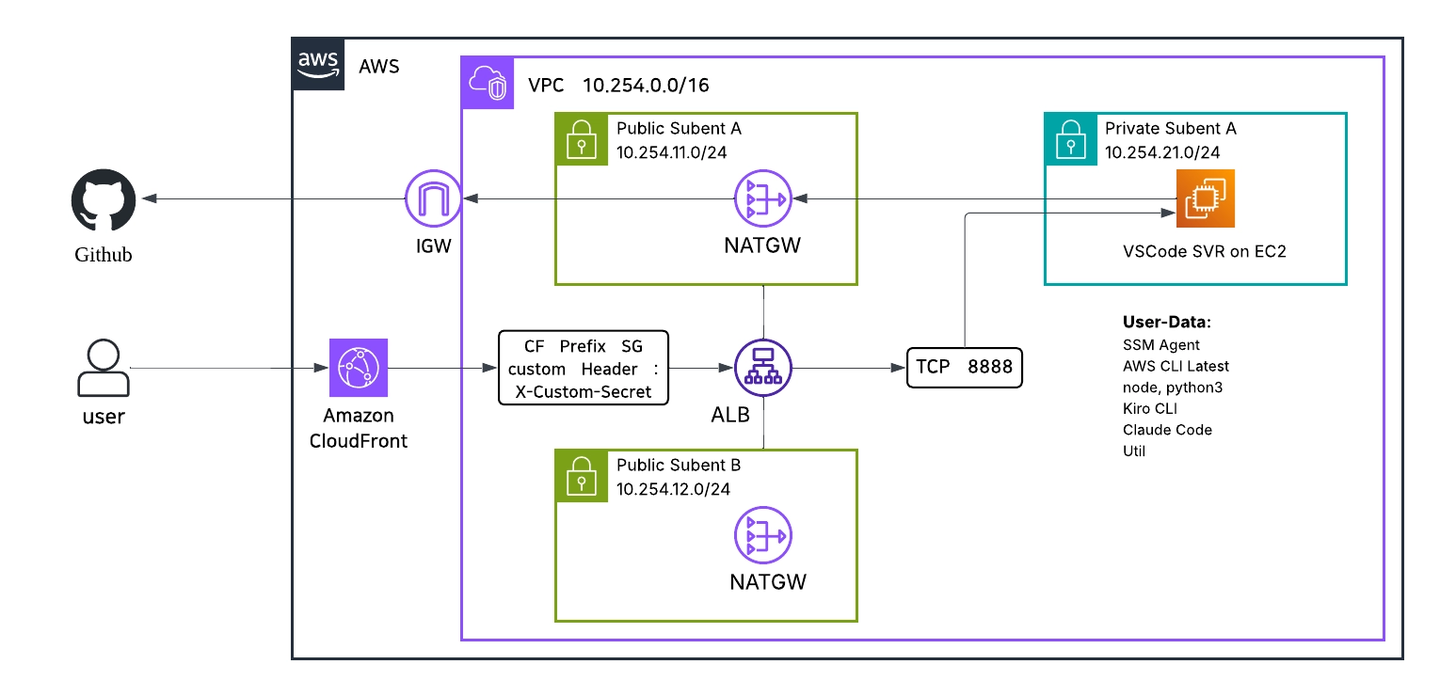
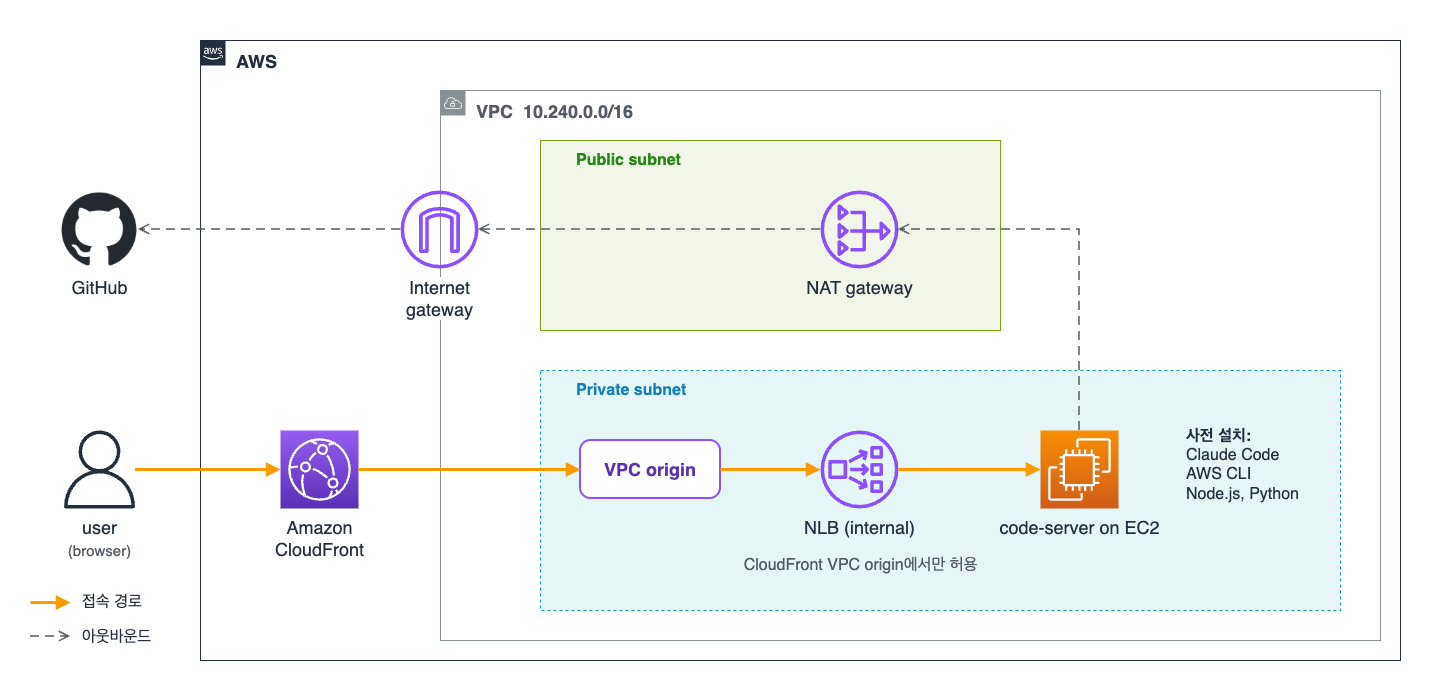
fix(20261116): preflight reads the IDE address from Event outputs only
- Drop the EC2 console instance check and the CloudShell describe-stacks
  step; CHECK 02 now reads IDEUrl and Password from Event outputs.
- Renumber the checks (six to five) and drop durations from heading ids.
- Replace the access diagram (fig-05) with a CloudFront VPC origin path:
  CloudFront -> VPC origin -> internal NLB -> code-server on EC2 in a
  private subnet; keep the draw.io source next to it.
- Remove the unused EC2 console screenshot (fig-02).

diff --git a/20261116/ClaudeCode_Preflight_Check.html b/20261116/ClaudeCode_Preflight_Check.html
@@ -94,91 +94,40 @@ body.nav-open .side{transform:none}main{padding:22px 16px 60px}.page-title{font-
 <p><strong>Chapter 1을 열기 전, 프리플라이트</strong></p>
 </blockquote>
 <p>실습 환경이 켜져 있고 브라우저로 닿는지만 확인하면 준비 끝입니다.
-아래 여섯 항목을 순서대로 체크하세요. 전부 초록이 되면 그대로 Chapter 1로 진입합니다.</p>
-<p>확인 항목 <strong>6개</strong> · 환경 <strong>Workshop Studio + EC2 code-server + Claude Apps Gateway</strong> · Update <strong>2026.11</strong></p>
+아래 다섯 항목을 순서대로 체크하세요. 전부 초록이 되면 그대로 Chapter 1로 진입합니다.</p>
+<p>확인 항목 <strong>5개</strong> · 환경 <strong>Workshop Studio + EC2 code-server + Claude Apps Gateway</strong> · Update <strong>2026.11</strong></p>
 <div class="alert info"><div class="alert-icon" aria-hidden="true">ℹ</div><div class="alert-body"><p><strong>명령은 복사 버튼으로 붙여 넣으세요</strong></p>
 <p>모든 랩의 코드 블록은 오른쪽 위 <strong>복사</strong> 버튼으로 복사해, 블록 아래 안내의 "붙여넣는 곳"(터미널 또는 Claude 입력창)에 통째로 붙여 넣습니다. 여러 줄 블록을 한 줄씩 손으로 치면, <code>sudo</code>나 <code>use_bedrock_direct</code>처럼 잠깐 입력을 받는 명령이 그다음에 친 줄을 삼켜 뒷부분이 실행되지 않을 수 있습니다(실습 환경에서 확인).</p></div></div>
-<h2 id="check-01-워크샵-접속-1분">CHECK 01 · 워크샵 접속</h2>
+<h2 id="check-01-워크샵-접속">CHECK 01 · 워크샵 접속</h2>
 <p>배부받은 Workshop Studio 이벤트 링크로 접속해 <strong>AWS 콘솔이 열리는 것</strong>까지 확인합니다.</p>
 <p>이벤트 접속 코드는 현장에서 배부됩니다. 접속 후 좌측 메뉴의 콘솔 열기로 AWS Management Console에 들어가면 이 계정이 오늘 하루 여러분의 실습 계정입니다. 리전은 <code>us-east-1 (버지니아 북부)</code>인지 우측 상단에서 확인하세요.</p>
 <p>접속 코드를 입력하면 <strong>Review and join</strong> 화면이 나옵니다. 약관을 읽고 <strong>I agree with the Terms and Conditions</strong>를 체크한 뒤 <strong>Join event</strong>를 누르세요.</p>
 <p><img alt="Review and join 화면: 약관 동의 체크박스를 선택하고 이벤트에 참가합니다." src="images/guides/preflight/fig-00-join.png" onerror="this.closest(\'p\').classList.add(\'img-missing\')" /></p>
-<p>같은 이벤트 화면의 <strong>Event outputs</strong> 표에서 <code>IDEUrl</code>(브라우저에서 여는 실습 IDE 주소, code-server)과 <code>Password</code>(code-server 비밀번호)를 확인합니다. 아래 화면에서 가려진 값이 여러분 화면에서는 그대로 보입니다.</p>
-<p><img alt="Event outputs 표: IDEUrl을 열어 code-server에 접속하고 Password로 로그인합니다. Id와 Password 값은 가렸습니다." src="images/guides/preflight/fig-01.png" onerror="this.closest(\'p\').classList.add(\'img-missing\')" /></p>
 <div class="alert success"><div class="alert-icon" aria-hidden="true">✓</div><div class="alert-body"><p><strong>CHECKPOINT</strong></p>
 <ul>
 <li class="check"><label><input type="checkbox"> <span>Workshop Studio로 AWS 콘솔이 열렸고 리전이 us-east-1이다</span></label></li>
 </ul></div></div>
 
-<h2 id="check-02-실습-인스턴스-확인-1분">CHECK 02 · 실습 인스턴스 확인</h2>
-<p>EC2 콘솔에서 두 인스턴스가 실행 중인지 확인하세요. 여러분이 직접 쓰는 것은 <strong>ccb-endpoint 하나</strong>이고, 게이트웨이는 Ch2 Lab 1의 TASK 06과 Ch6에서만 거쳐 갑니다.</p>
-<table>
-<thead>
-<tr>
-<th>인스턴스</th>
-<th>역할</th>
-<th>서브넷</th>
-</tr>
-</thead>
-<tbody>
-<tr>
-<td>ccb-endpoint</td>
-<td>code-server + Claude Code. 기본은 인스턴스 역할로 Amazon Bedrock을 직접 호출</td>
-<td>퍼블릭(CloudFront 경유 접속)</td>
-</tr>
-<tr>
-<td><code>…-apps-gateway</code></td>
-<td>Claude Apps Gateway. Cognito 로그인, 그룹별 모델 허용 목록, 일일 지출 한도</td>
-<td>프라이빗(VPC 안에서만 접근)</td>
-</tr>
-</tbody>
-</table>
+<h2 id="check-02-접속-주소-확인">CHECK 02 · 접속 주소 확인</h2>
+<p>Workshop Studio 이벤트 화면의 <strong>Event outputs</strong> 표에서 <code>IDEUrl</code>(브라우저에서 여는 실습 IDE 주소, code-server)과 <code>Password</code>(code-server 비밀번호)를 확인합니다. 접속에 필요한 값은 이 둘뿐이고, AWS 콘솔에서 따로 찾을 것은 없습니다. 아래 화면에서 가려진 값이 여러분 화면에서는 그대로 보입니다.</p>
+<p><img alt="Event outputs 표: IDEUrl을 열어 code-server에 접속하고 Password로 로그인합니다. Id와 Password 값은 가렸습니다." src="images/guides/preflight/fig-01.png" onerror="this.closest(\'p\').classList.add(\'img-missing\')" /></p>
+<div class="alert success"><div class="alert-icon" aria-hidden="true">✓</div><div class="alert-body"><p><strong>CHECKPOINT</strong></p>
+<ul>
+<li class="check"><label><input type="checkbox"> <span>Event outputs에서 <code>IDEUrl</code>과 <code>Password</code>를 확인했다</span></label></li>
+</ul></div></div>
+
+<h2 id="check-03-code-server-접속">CHECK 03 · code-server 접속</h2>
+<p>Event outputs의 <code>IDEUrl</code>을 브라우저 새 탭에서 열고 <code>Password</code>로 로그인하면 <strong>VS Code와 같은 화면</strong>이 열립니다. 상단 메뉴에서 Terminal, New Terminal로 <strong>통합 터미널</strong>을 하나 띄워 두세요. 오늘 모든 랩이 이 화면 하나에서 진행됩니다.</p>
 <div class="alert info"><div class="alert-icon" aria-hidden="true">ℹ</div><div class="alert-body"><p><strong>EC2에 직접 접속하지 않습니다</strong></p>
-<p><code>IDEUrl</code>로 ccb-endpoint에 사전 배포된 <strong>VSCode Server(code-server)</strong>를 브라우저로 엽니다. SSH 키는 필요 없습니다.</p></div></div>
+<p><code>IDEUrl</code>은 실습 PC(EC2 인스턴스 ccb-endpoint)에 사전 배포된 <strong>VSCode Server(code-server)</strong>를 브라우저로 여는 주소입니다. SSH 키는 필요 없습니다.</p></div></div>
 
-<p><img alt="콘솔 진입 직후: 최근 방문에서 EC2로 이동합니다." src="images/guides/preflight/fig-02.png" onerror="this.closest(\'p\').classList.add(\'img-missing\')" /></p>
-<div class="alert success"><div class="alert-icon" aria-hidden="true">✓</div><div class="alert-body"><p><strong>CHECKPOINT</strong></p>
-<ul>
-<li class="check"><label><input type="checkbox"> <span>ccb-endpoint와 apps-gateway 인스턴스가 실행 중이다</span></label></li>
-</ul></div></div>
-
-<h2 id="check-03-접속-주소-확인-1분">CHECK 03 · 접속 주소 확인</h2>
-<p>Workshop Studio 팀 페이지의 <strong>Outputs 표</strong>에서 <code>IDEUrl</code>과 code-server 비밀번호를 복사합니다. 콘솔에서 다시 찾을 때는 CloudShell(콘솔 상단 터미널 아이콘)에서 아래를 실행합니다.</p>
-<p><strong>CloudShell, 전체 복사</strong></p>
-<div class="code copyable"><div class="code-head"><span>bash</span><button class="copy" type="button" aria-label="복사">복사</button></div><pre><code>aws cloudformation describe-stacks --region us-east-1 \
-  --query &quot;Stacks[].Outputs[?OutputKey==&#x27;IDEUrl&#x27;].OutputValue&quot; --output text</code></pre></div>
-<details class="cmd-explain">
-<summary>이 블록이 하는 일 (붙여넣는 곳: AWS 콘솔의 CloudShell 터미널)</summary>
-<ol>
-<li data-lines="1">CloudFormation은 실습 환경을 한 번에 만들어 준 AWS 서비스입니다. <code>describe-stacks</code>는 그렇게 만든 묶음(스택)의 정보를 읽어 옵니다. <code>--region us-east-1</code>은 실습 리전을 지정합니다. 줄 끝의 <code>\</code>는 다음 줄까지 한 명령이라는 표시입니다.</li>
-<li data-lines="2"><code>--query</code>는 결과 가운데 <code>IDEUrl</code> 값만 골라냅니다. <code>--output text</code>는 따옴표 없이 주소만 보여 줍니다. 나온 주소를 브라우저 새 탭에 붙여 넣으면 됩니다.</li>
-</ol>
-</details>
-
-<p><strong>출력 예시</strong></p>
-<div class="code sample"><div class="code-head"><span>text</span><span class="tag">출력 예시</span></div><pre><code>https://d3f4g87xxxxx.cloudfront.net/?folder=/home/ec2-user</code></pre></div>
-<details class="cmd-explain">
-<summary>이 출력이 뜻하는 것 (붙여넣지 않음, 참고용)</summary>
-<ol>
-<li data-lines="1">여러분의 실습 IDE(code-server) 주소입니다. CloudFront는 바깥에서 실습 PC로 들어오는 AWS의 입구 서비스입니다. 주소의 앞부분은 사람마다 다릅니다.</li>
-<li>아무것도 나오지 않으면 아래 <strong>문제가 있을 때</strong> 표의 첫 줄을 보세요.</li>
-</ol>
-</details>
-
-<div class="alert success"><div class="alert-icon" aria-hidden="true">✓</div><div class="alert-body"><p><strong>CHECKPOINT</strong></p>
-<ul>
-<li class="check"><label><input type="checkbox"> <span><code>IDEUrl</code>과 비밀번호를 확보했다</span></label></li>
-</ul></div></div>
-
-<h2 id="check-04-code-server-접속-1분">CHECK 04 · code-server 접속</h2>
-<p>주소를 브라우저 새 탭에 붙여 넣으면 <strong>VS Code와 같은 화면</strong>이 열립니다. 상단 메뉴에서 Terminal, New Terminal로 <strong>통합 터미널</strong>을 하나 띄워 두세요. 오늘 모든 랩이 이 화면 하나에서 진행됩니다.</p>
-<p><img alt="접속 구조: CloudFront를 지나 EC2의 code-server에 닿습니다. Claude Code는 이미 설치되어 있습니다." src="images/guides/preflight/fig-05.png" onerror="this.closest(\'p\').classList.add(\'img-missing\')" /></p>
+<p><img alt="접속 구조: 브라우저의 요청이 CloudFront와 VPC origin을 지나 프라이빗 서브넷의 내부 NLB, 그 뒤 EC2의 code-server에 닿습니다. Claude Code는 이미 설치되어 있습니다." src="images/guides/preflight/fig-05.png" onerror="this.closest(\'p\').classList.add(\'img-missing\')" /></p>
 <div class="alert success"><div class="alert-icon" aria-hidden="true">✓</div><div class="alert-body"><p><strong>CHECKPOINT</strong></p>
 <ul>
 <li class="check"><label><input type="checkbox"> <span>code-server가 열렸고 통합 터미널이 떠 있다</span></label></li>
 </ul></div></div>
 
-<h2 id="check-05-claude-code와-게이트웨이-확인-1분">CHECK 05 · Claude Code와 게이트웨이 확인</h2>
+<h2 id="check-04-claude-code와-게이트웨이-확인">CHECK 04 · Claude Code와 게이트웨이 확인</h2>
 <p><strong>Terminal, 전체 복사</strong></p>
 <div class="code copyable"><div class="code-head"><span>bash</span><button class="copy" type="button" aria-label="복사">복사</button></div><pre><code>claude --version
 jq -r &#x27;.env.CLAUDE_CODE_USE_BEDROCK, .env.AWS_REGION&#x27; ~/.claude/settings.json
@@ -217,7 +166,7 @@ https://d3f4g87xxxxx.cloudfront.net</code></pre></div>
 <li class="check"><label><input type="checkbox"> <span>게이트웨이가 VPC 안에서 응답한다, 프리플라이트 완료</span></label></li>
 </ul></div></div>
 
-<h2 id="check-06-마이데이터-내려받기-2분">CHECK 06 · 마이데이터 내려받기</h2>
+<h2 id="check-05-마이데이터-내려받기">CHECK 05 · 마이데이터 내려받기</h2>
 <p>이번 실습은 마이데이터 시나리오 위에서 진행합니다. 고객자산 분석 담당자와 IT보안·플랫폼 담당자가 함께 쓰는 테스트 데이터 묶음(<code>mydata-kit.zip</code>)을 ccb-endpoint에 미리 내려받아 둡니다. <code>raw/</code>는 DLP 시연용 원본, <code>pseudo/</code>는 분석용 가명처리 데이터입니다.</p>
 <div class="alert warning"><div class="alert-icon" aria-hidden="true">⚠</div><div class="alert-body"><p><strong>테스트 데이터만 사용하세요</strong></p>
 <p>키트의 모든 식별자는 형식만 흉내 낸 가짜 값입니다. 실제 고객 데이터는 이 환경에 올리지 마세요.</p></div></div>
@@ -278,9 +227,9 @@ checkpoints  pseudo  raw  SHA256SUMS  VERSION</code></pre></div>
 </thead>
 <tbody>
 <tr>
-<td>IDEUrl이 빈 값</td>
-<td>리전 불일치 또는 배포 진행 중</td>
-<td>리전 us-east-1 확인 후 재실행, 계속 비면 진행자에게 알림</td>
+<td>Event outputs에 IDEUrl이 보이지 않음</td>
+<td>실습 환경 배포 진행 중</td>
+<td>이벤트 화면을 새로고침, 계속 보이지 않으면 진행자에게 알림</td>
 </tr>
 <tr>
 <td>CloudFront 주소가 안 열림</td>
@@ -310,7 +259,7 @@ checkpoints  pseudo  raw  SHA256SUMS  VERSION</code></pre></div>
 <li>다음: <a href="ClaudeCode_Ch1_HandsOnLab.html">Ch1. Claude Code는 어떻게 동작하는가</a></li>
 </ul>
 <hr />
-<p>원문: <a href="https://whchoi98.github.io/ccw-hands-on-lab/ClaudeCode_Preflight_Check.html" target="_blank" rel="noopener">Claude Code Deep Dive Workshop · Preflight. 시작 전 확인</a> · 기준: 2026.07, 2026.11 환경에 맞게 수정</p><div class="pager"><a class="prev" href="index.html"><small>이전</small>실습 포털</a><a class="next" href="ClaudeCode_Ch1_HandsOnLab.html"><small>다음</small>Ch1. Claude Code는 어떻게 동작하는가</a></div></article><nav class="toc" aria-label="이 페이지"><div class="toc-title">이 페이지</div><ol><li><a href="#check-01-워크샵-접속-1분">CHECK 01 · 워크샵 접속</a></li><li><a href="#check-02-실습-인스턴스-확인-1분">CHECK 02 · 실습 인스턴스 확인</a></li><li><a href="#check-03-접속-주소-확인-1분">CHECK 03 · 접속 주소 확인</a></li><li><a href="#check-04-code-server-접속-1분">CHECK 04 · code-server 접속</a></li><li><a href="#check-05-claude-code와-게이트웨이-확인-1분">CHECK 05 · Claude Code와 게이트웨이 확인</a></li><li><a href="#check-06-마이데이터-내려받기-2분">CHECK 06 · 마이데이터 내려받기</a></li><li><a href="#문제가-있을-때">문제가 있을 때</a></li><li><a href="#이전-다음">이전 / 다음</a></li></ol></nav></main>
+<p>원문: <a href="https://whchoi98.github.io/ccw-hands-on-lab/ClaudeCode_Preflight_Check.html" target="_blank" rel="noopener">Claude Code Deep Dive Workshop · Preflight. 시작 전 확인</a> · 기준: 2026.07, 2026.11 환경에 맞게 수정</p><div class="pager"><a class="prev" href="index.html"><small>이전</small>실습 포털</a><a class="next" href="ClaudeCode_Ch1_HandsOnLab.html"><small>다음</small>Ch1. Claude Code는 어떻게 동작하는가</a></div></article><nav class="toc" aria-label="이 페이지"><div class="toc-title">이 페이지</div><ol><li><a href="#check-01-워크샵-접속">CHECK 01 · 워크샵 접속</a></li><li><a href="#check-02-접속-주소-확인">CHECK 02 · 접속 주소 확인</a></li><li><a href="#check-03-code-server-접속">CHECK 03 · code-server 접속</a></li><li><a href="#check-04-claude-code와-게이트웨이-확인">CHECK 04 · Claude Code와 게이트웨이 확인</a></li><li><a href="#check-05-마이데이터-내려받기">CHECK 05 · 마이데이터 내려받기</a></li><li><a href="#문제가-있을-때">문제가 있을 때</a></li><li><a href="#이전-다음">이전 / 다음</a></li></ol></nav></main>
 </div>
 <script>(function(){
   var root=document.documentElement, page=document.body.dataset.page;
